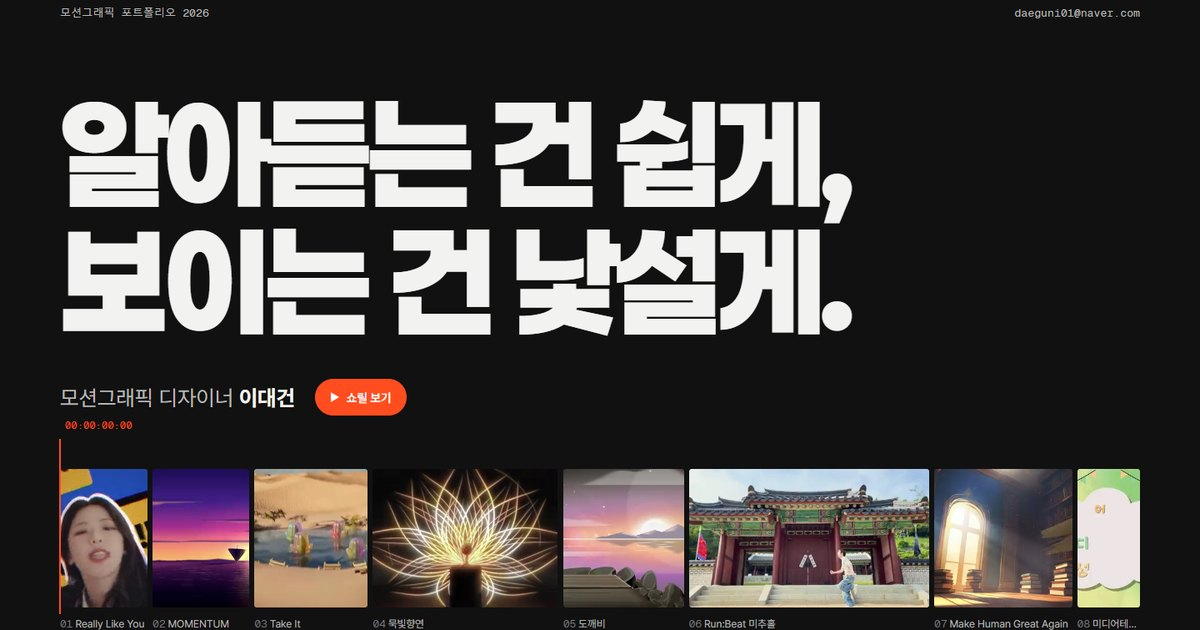
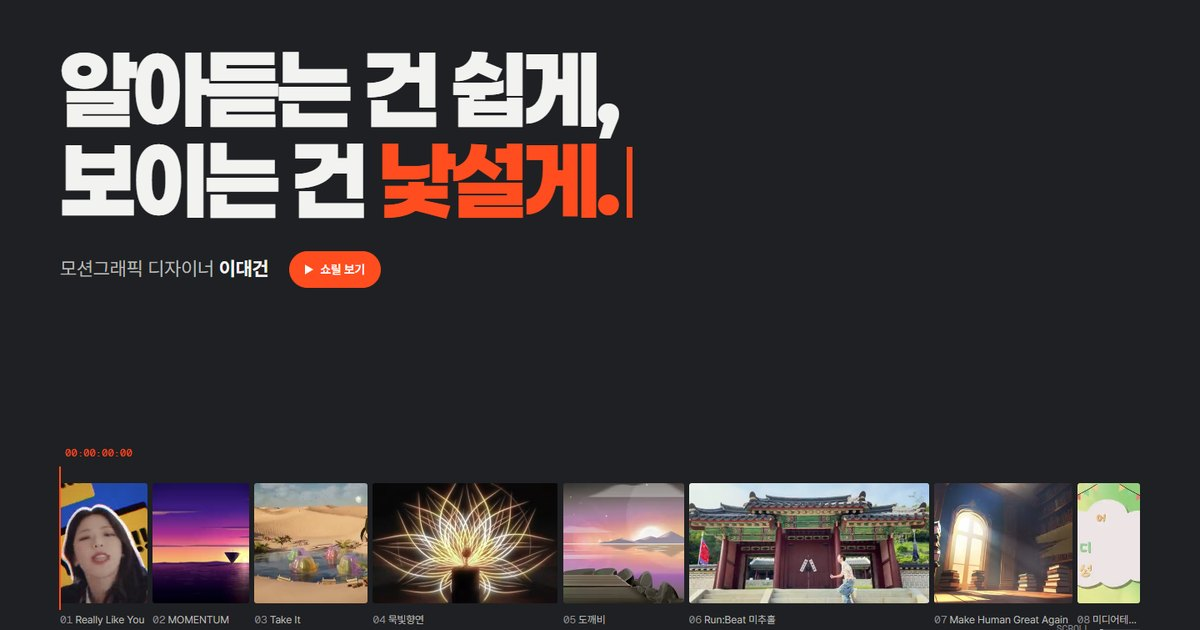
바탕을 다크 차콜로: 눈 피로 줄이기
#111112 → #1f2023. 표면·구분선·보조 글자·타임라인 트랙·오버레이 색도 한 단계씩 밝혀 대비 유지. 공유 미리보기 이미지 다시 생성.

diff --git a/src/app/globals.css b/src/app/globals.css
@@ -2,12 +2,12 @@
 
 /* ===== 토큰 (Design.md) ===== */
 :root {
-  --bg: #111112;
-  --surface: #18181a;
-  --line: #2b2b2e;
+  --bg: #1f2023;
+  --surface: #27282c;
+  --line: #36373c;
   --ink: #f2f2f0;
   --ink2: #b9b9b6;
-  --dim: #77777a;
+  --dim: #8b8c90;
   --accent: #ff4d1f;
   --accent-deep: #e8431a;
   /* After Effects 속도 그래프식 비대칭 베지어 */
@@ -99,7 +99,7 @@ button { font: inherit; color: inherit; }
   transition: background-color 0.45s var(--ease-swoosh), border-color 0.45s var(--ease-swoosh);
   border-bottom: 1px solid transparent;
 }
-.hdr.is-scrolled { background: #111112d0; border-color: var(--line); backdrop-filter: blur(14px); -webkit-backdrop-filter: blur(14px); }
+.hdr.is-scrolled { background: #1f2023d0; border-color: var(--line); backdrop-filter: blur(14px); -webkit-backdrop-filter: blur(14px); }
 .hdr-in { height: 100%; display: flex; align-items: center; justify-content: space-between; }
 .hdr-logo { display: inline-flex; align-items: center; gap: 10px; font-weight: 700; font-size: 16px; }
 .hdr-mark { width: 2px; height: 18px; background: var(--accent); transition: transform 0.45s var(--ease-punch); }
@@ -258,7 +258,7 @@ button { font: inherit; color: inherit; }
 /* ===== 고정 타임라인 ===== */
 .tl {
   position: fixed; inset: auto 0 0; z-index: 40; height: var(--tl-h);
-  background: #111112d6; border-top: 1px solid var(--line); backdrop-filter: blur(14px); -webkit-backdrop-filter: blur(14px);
+  background: #1f2023d6; border-top: 1px solid var(--line); backdrop-filter: blur(14px); -webkit-backdrop-filter: blur(14px);
   transform: translateY(101%); transition: transform 0.6s var(--ease-swoosh);
 }
 .tl.is-on { transform: none; }
@@ -268,15 +268,15 @@ button { font: inherit; color: inherit; }
 .tl-lbl { color: var(--ink2); white-space: nowrap; overflow: hidden; text-overflow: ellipsis; }
 .tl-track { position: relative; flex: 1; height: 24px; }
 .tl-seg { position: absolute; top: 0; bottom: 0; padding: 0; background: none; border: 0; cursor: pointer; }
-.tl-seg i { position: absolute; left: 1px; right: 1px; top: 50%; height: 4px; margin-top: -2px; background: #2e2e31; transition: background-color 0.35s var(--ease-punch), transform 0.35s var(--ease-punch); }
-.tl-seg.is-mark i { background: #232326; }
+.tl-seg i { position: absolute; left: 1px; right: 1px; top: 50%; height: 4px; margin-top: -2px; background: #3b3c41; transition: background-color 0.35s var(--ease-punch), transform 0.35s var(--ease-punch); }
+.tl-seg.is-mark i { background: #2e2f33; }
 .tl-seg:hover i { background: var(--ink2); transform: scaleY(1.6); }
 .tl-seg.is-cur i { background: #8d8d8a; }
 .tl-ph { position: absolute; top: 2px; bottom: 2px; width: 2px; margin-left: -1px; background: var(--accent); pointer-events: none; }
 .tl-total { font-size: 12px; color: var(--dim); flex: none; }
 
 /* ===== 영상 창 ===== */
-.vmodal { position: fixed; inset: 0; z-index: 100; display: flex; align-items: center; justify-content: center; padding: 56px 4vw; background: #0a0a0be6; opacity: 0; transition: opacity 0.45s var(--ease-swoosh); }
+.vmodal { position: fixed; inset: 0; z-index: 100; display: flex; align-items: center; justify-content: center; padding: 56px 4vw; background: #161719e6; opacity: 0; transition: opacity 0.45s var(--ease-swoosh); }
 .vmodal.is-on { opacity: 1; }
 .vmodal-in { width: min(1400px, 100%, calc((100vh - 150px) * 16 / 9)); transform: translateY(24px) scale(0.965); transition: transform 0.7s var(--ease-swoosh); }
 .vmodal.is-on .vmodal-in { transform: none; }
@@ -340,7 +340,7 @@ button { font: inherit; color: inherit; }
 .sg-cap .mono { font-size: 11px; color: #ffffffb0; }
 .sg-cap-t { opacity: 0; transform: translateY(6px); transition: opacity 0.4s var(--ease-punch), transform 0.5s var(--ease-punch); }
 .sg-tile:hover .sg-cap-t, .sg-tile:focus-visible .sg-cap-t { opacity: 1; transform: none; }
-.sg-badge { position: absolute; left: 12px; top: 11px; padding: 3px 7px; border-radius: 2px; background: #111112b8; color: #ffffffcc; font-size: 10px; letter-spacing: 0.06em; pointer-events: none; }
+.sg-badge { position: absolute; left: 12px; top: 11px; padding: 3px 7px; border-radius: 2px; background: #1f2023b8; color: #ffffffcc; font-size: 10px; letter-spacing: 0.06em; pointer-events: none; }
 .sg-pip {
   position: absolute; right: 10px; bottom: 10px; width: 36%; max-width: 240px; aspect-ratio: 16 / 9;
   background: #fff; border-radius: 3px; box-shadow: 0 10px 30px #0000008c; overflow: hidden; pointer-events: none;
@@ -355,7 +355,7 @@ button { font: inherit; color: inherit; }
 .sg-sheet img { width: 100%; height: auto; }
 
 /* 크게 보기 */
-.lb { position: fixed; inset: 0; z-index: 100; display: flex; flex-direction: column; align-items: center; justify-content: center; padding: 64px clamp(16px, 6vw, 96px) 40px; background: #0a0a0bf2; opacity: 0; transition: opacity 0.4s var(--ease-swoosh); }
+.lb { position: fixed; inset: 0; z-index: 100; display: flex; flex-direction: column; align-items: center; justify-content: center; padding: 64px clamp(16px, 6vw, 96px) 40px; background: #161719f2; opacity: 0; transition: opacity 0.4s var(--ease-swoosh); }
 .lb.is-on { opacity: 1; }
 .lb-bar { position: absolute; left: clamp(16px, 3vw, 40px); right: clamp(16px, 3vw, 40px); top: 18px; display: flex; justify-content: space-between; font-size: 12.5px; color: var(--ink2); }
 .lb-bar button { background: none; border: 0; cursor: pointer; color: var(--ink2); font-size: 13px; }
@@ -368,7 +368,7 @@ button { font: inherit; color: inherit; }
 .lb-sketch { position: absolute; right: 14px; bottom: 14px; width: min(28%, 300px); padding: 6px 6px 7px; background: #fff; border-radius: 3px; box-shadow: 0 12px 36px #000000a0; }
 .lb-sketch .mono { display: block; margin: 0 2px 5px; font-size: 9.5px; letter-spacing: 0.06em; color: #555; }
 .lb-sketch img { width: 100%; height: auto; }
-.lb-nav { position: absolute; top: 50%; width: 48px; height: 48px; margin-top: -24px; border: 1px solid #ffffff38; border-radius: 50%; background: #11111299; color: var(--ink); font-size: 18px; cursor: pointer; transition: background-color 0.35s var(--ease-punch), border-color 0.35s var(--ease-punch); }
+.lb-nav { position: absolute; top: 50%; width: 48px; height: 48px; margin-top: -24px; border: 1px solid #ffffff38; border-radius: 50%; background: #1f202399; color: var(--ink); font-size: 18px; cursor: pointer; transition: background-color 0.35s var(--ease-punch), border-color 0.35s var(--ease-punch); }
 .lb-nav:hover { background: var(--accent); border-color: var(--accent); }
 .lb-prev { left: clamp(8px, 2vw, 28px); }
 .lb-next { right: clamp(8px, 2vw, 28px); }

diff --git a/src/app/layout.tsx b/src/app/layout.tsx
@@ -43,7 +43,7 @@ export const metadata: Metadata = {
   twitter: { card: "summary_large_image", title: SITE_TITLE, description: SITE_DESCRIPTION },
 };
 
-export const viewport: Viewport = { themeColor: "#111112", colorScheme: "dark" };
+export const viewport: Viewport = { themeColor: "#1f2023", colorScheme: "dark" };
 
 export default function RootLayout({ children }: LayoutProps<"/">) {
   return (

diff --git a/Design.md b/Design.md
@@ -2,12 +2,12 @@
 name: "Timeline"
 description: "편집 타임라인을 스크롤하는 모션그래픽 포트폴리오. PDF 포트폴리오(v4)의 톤을 웹으로 옮김."
 colors:
-  bg: "#111112"        # 바탕. 순수 검정 금지
-  surface: "#18181a"   # 카드·패널
-  line: "#2b2b2e"      # 구분선, 타임라인 트랙
+  bg: "#1f2023"        # 바탕: 다크 차콜 (2026-11-06, 눈 피로 때문에 #111112에서 밝힘). 순수 검정 금지
+  surface: "#27282c"   # 카드·패널
+  line: "#36373c"      # 구분선, 타임라인 트랙
   ink: "#f2f2f0"       # 제목·본문 강조
   ink2: "#b9b9b6"      # 본문
-  dim: "#77777a"       # 라벨, 보조 정보
+  dim: "#8b8c90"       # 라벨, 보조 정보
   accent: "#ff4d1f"    # 재생 헤드·타임코드·포커스. 이 색은 '지금 위치'에만 쓴다
 fonts:
   display: "Paperlogy 900"     # 제목
@@ -50,4 +50,4 @@ rounded:
 ## 컴포넌트
 - 버튼: 알약형 1px 테두리(`#ffffff38`), 호버 시 accent 채움. 아이콘은 인라인 SVG
 - 재생 헤드: 2px accent 세로선 + 위쪽 타임코드 라벨(모노 12px)
-- 크게 보기(라이트박스): 바탕 #0a0a0b f2, 이미지 등장 ease-punch, ← → / Esc
+- 크게 보기(라이트박스): 바탕 #161719 f2, 이미지 등장 ease-punch, ← → / Esc
